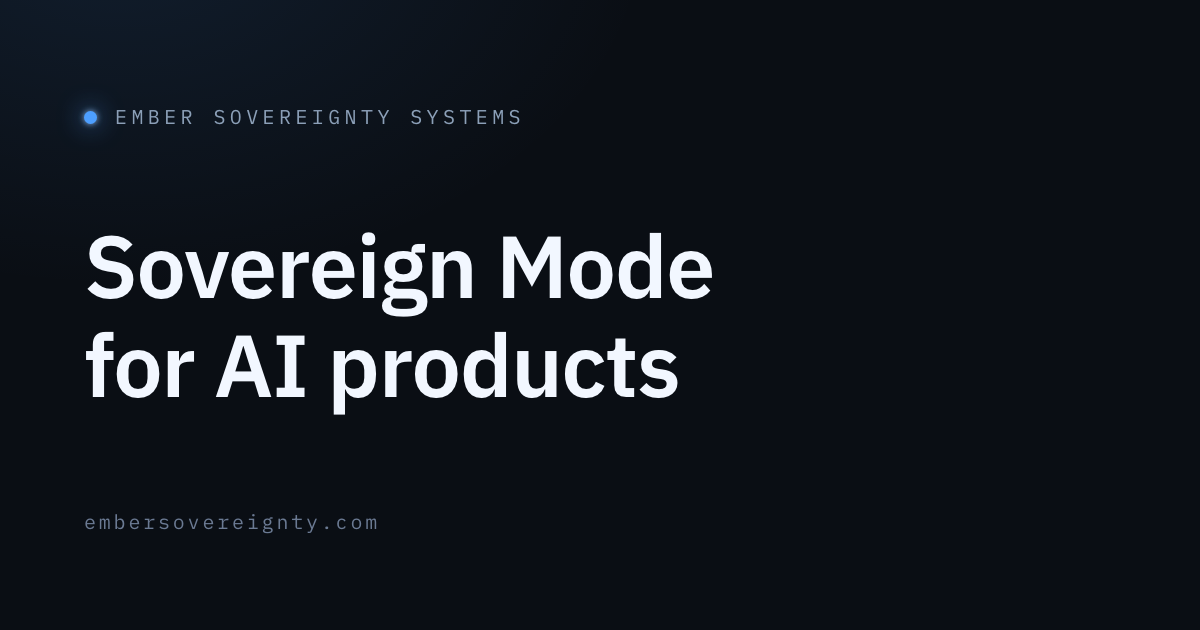
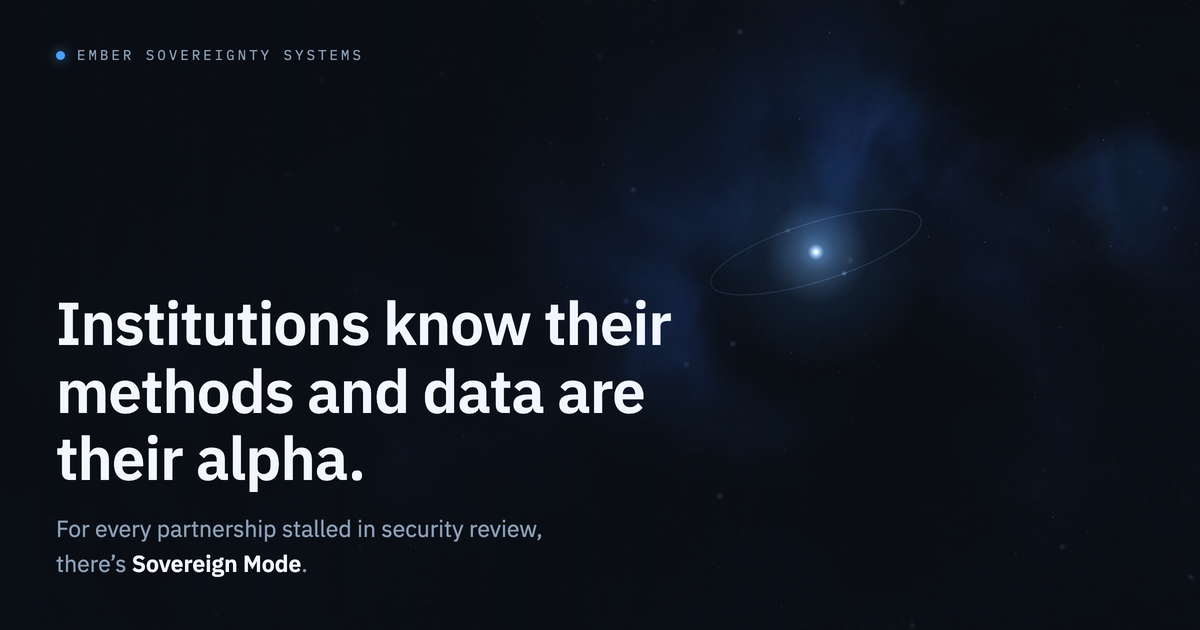
Deploy timing-claim removal and nebula OG card from team site

diff --git a/compare/index.html b/compare/index.html
@@ -96,12 +96,6 @@
         <td><b>Unchanged.</b> Sovereignty is a toggle.</td>
       </tr>
       <tr>
-        <td class="dim">TIME TO DEPLOYMENT</td>
-        <td><b>Minutes, then months.</b> Instant to try; stalled in security review.</td>
-        <td><b>Months.</b> Platform work before anyone types a prompt.</td>
-        <td><b>Days, not months.</b> SDK install; the review verifies instead of audits.</td>
-      </tr>
-      <tr>
         <td class="dim">DATA EXPOSURE</td>
         <td><b>High.</b> Plaintext in the vendor&rsquo;s backend.</td>
         <td><b>Contained.</b> Plaintext in memory, inside the buyer&rsquo;s perimeter.</td>

diff --git a/briefing/index.html b/briefing/index.html
@@ -101,10 +101,6 @@
       <p>No. Sovereign Mode invokes the models you already use. The inference provider receives prompts and completions under the approved credential and terms.</p>
     </details>
     <details>
-      <summary>What happens after the briefing?</summary>
-      <p>We select one production workflow, map its content path, and identify the code, policy, and buyer approvals a pilot needs.</p>
-    </details>
-    <details>
       <summary>Is this a crypto thing?</summary>
       <p>No token, nothing to trade. Receipts anchor to a public ledger for one reason: it&rsquo;s the only log a vendor can&rsquo;t quietly edit. Your customer&rsquo;s key is a passkey, one tap.</p>
     </details>